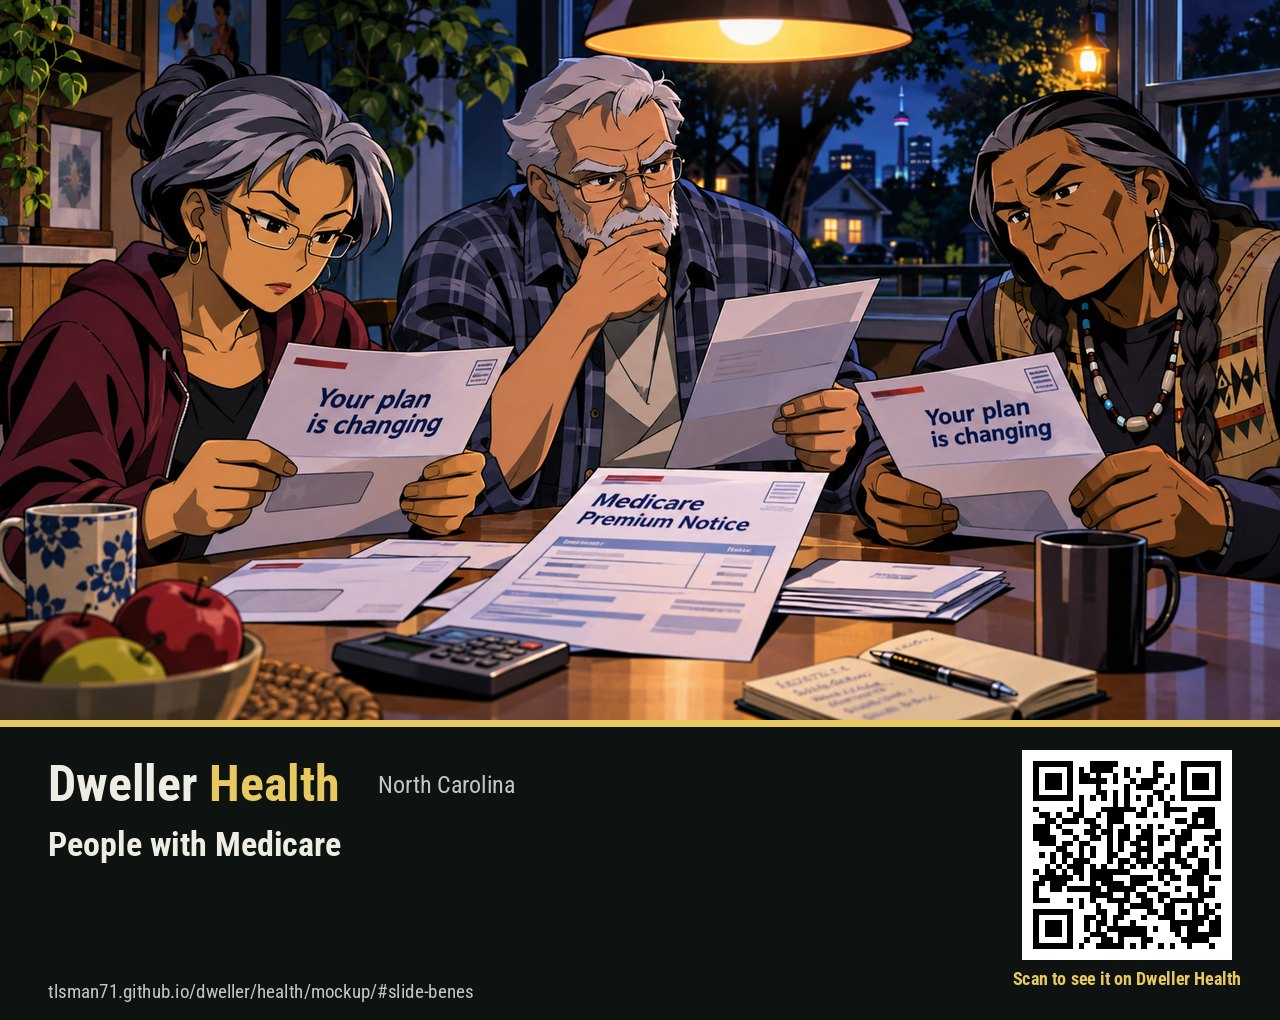
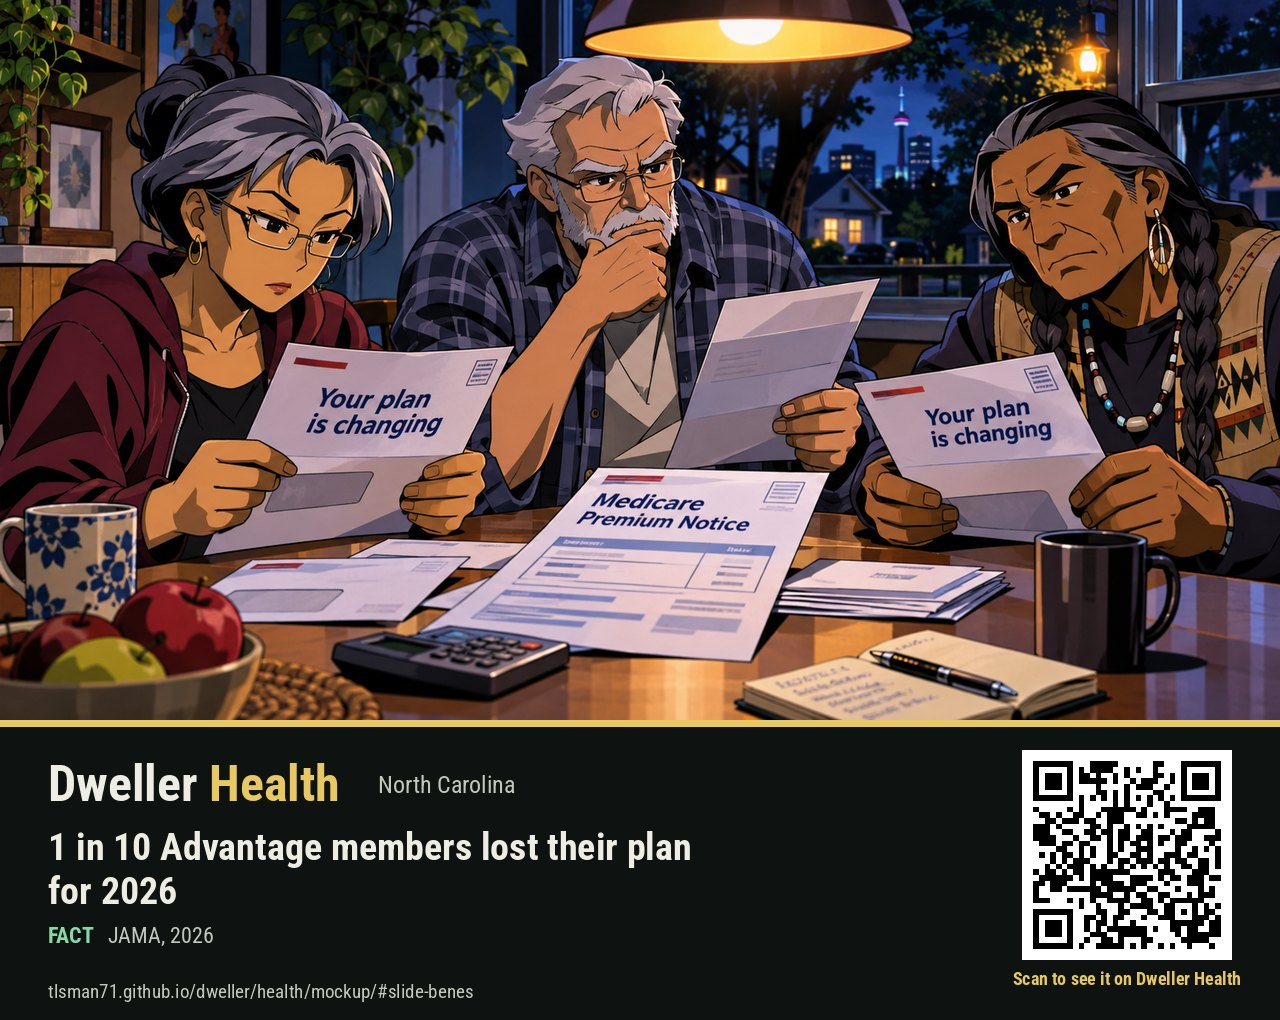
Dweller Health slides: publish 13 short captions Tom approved (Nov 15, 19:06)
Approved: medpac, hi, oig, tax, benes, smi, cms, ma, hum, cvs, left, trustees, mma.
Share cards rebuilt with headlines. cen caption still waiting; tax and trustees
images still waiting, so their captions don't show yet.

Claude-Session: https://claude.ai/code/session_01N4HRhx3dSD52yBqj3MMuLm

Changed region(s): [[0.0312, 0.8206, 0.5625, 0.9422]]

diff --git a/health/drawings/drawings.js b/health/drawings/drawings.js
@@ -24,8 +24,10 @@ window.DH_DRAWINGS = {
     "review_id": "illus-node-medpac-v1"
    },
    "caption": {
-    "status": "waiting",
-    "version": 2
+    "status": "approved",
+    "version": 2,
+    "approved_on": "2026-11-15",
+    "review_id": "caption-node-medpac-v2"
    },
    "headline": "Advantage pay adds $11 billion to Part B premiums",
    "source_short": "MedPAC, Mar 2026"
@@ -46,8 +48,10 @@ window.DH_DRAWINGS = {
     "review_id": "illus-node-hi-v1"
    },
    "caption": {
-    "status": "waiting",
-    "version": 2
+    "status": "approved",
+    "version": 2,
+    "approved_on": "2026-11-15",
+    "review_id": "caption-node-hi-v2"
    },
    "headline": "Part A pays in full until 2033. Then 89%.",
    "source_short": "Medicare Trustees, Jun 2026"
@@ -68,8 +72,10 @@ window.DH_DRAWINGS = {
     "review_id": "illus-node-oig-v1"
    },
    "caption": {
-    "status": "waiting",
-    "version": 2
+    "status": "approved",
+    "version": 2,
+    "approved_on": "2026-11-15",
+    "review_id": "caption-node-oig-v2"
    },
    "headline": "Top 3 insurers: some of the highest rehab-care denial rates",
    "source_short": "HHS Inspector General, Jun 2026"
@@ -90,8 +96,10 @@ window.DH_DRAWINGS = {
     "review_id": "illus-node-tax-v1"
    },
    "caption": {
-    "status": "waiting",
-    "version": 2
+    "status": "approved",
+    "version": 2,
+    "approved_on": "2026-11-15",
+    "review_id": "caption-node-tax-v2"
    },
    "headline": "Your paycheck funds Part A: 2.9%, split with your employer",
    "source_short": "Medicare Trustees, 2026"
@@ -112,8 +120,10 @@ window.DH_DRAWINGS = {
     "review_id": "illus-node-benes-v1"
    },
    "caption": {
-    "status": "waiting",
-    "version": 2
+    "status": "approved",
+    "version": 2,
+    "approved_on": "2026-11-15",
+    "review_id": "caption-node-benes-v2"
    },
    "headline": "1 in 10 Advantage members lost their plan for 2026",
    "source_short": "JAMA, 2026"
@@ -134,8 +144,10 @@ window.DH_DRAWINGS = {
     "review_id": "illus-node-smi-v1"
    },
    "caption": {
-    "status": "waiting",
-    "version": 2
+    "status": "approved",
+    "version": 2,
+    "approved_on": "2026-11-15",
+    "review_id": "caption-node-smi-v2"
    },
    "headline": "Taxes pay 73% of Part B and 81% of Part D",
    "source_short": "Medicare Trustees, 2026"
@@ -156,8 +168,10 @@ window.DH_DRAWINGS = {
     "review_id": "illus-node-cms-v1"
    },
    "caption": {
-    "status": "waiting",
-    "version": 2
+    "status": "approved",
+    "version": 2,
+    "approved_on": "2026-11-15",
+    "review_id": "caption-node-cms-v2"
    },
    "headline": "Advantage costs Medicare $76 billion more than Original would",
    "source_short": "MedPAC, Mar 2026"
@@ -178,8 +192,10 @@ window.DH_DRAWINGS = {
     "review_id": "illus-node-ma-v1"
    },
    "caption": {
-    "status": "waiting",
-    "version": 2
+    "status": "approved",
+    "version": 2,
+    "approved_on": "2026-11-15",
+    "review_id": "caption-node-ma-v2"
    },
    "headline": "34.9 million in Advantage: 55% of those eligible",
    "source_short": "MedPAC, Mar 2026"
@@ -222,8 +238,10 @@ window.DH_DRAWINGS = {
     "review_id": "illus-node-hum-v1"
    },
    "caption": {
-    "status": "waiting",
-    "version": 2
+    "status": "approved",
+    "version": 2,
+    "approved_on": "2026-11-15",
+    "review_id": "caption-node-hum-v2"
    },
    "headline": "Humana: 560,000 members had to find a new plan",
    "source_short": "Humana, Sep 2024"
@@ -244,8 +262,10 @@ window.DH_DRAWINGS = {
     "review_id": "illus-node-cvs-v1"
    },
    "caption": {
-    "status": "waiting",
-    "version": 2
+    "status": "approved",
+    "version": 2,
+    "approved_on": "2026-11-15",
+    "review_id": "caption-node-cvs-v2"
    },
    "headline": "Aetna: Advantage members to drop by high single digits",
    "source_short": "CVS Health, Feb 2025"
@@ -310,8 +330,10 @@ window.DH_DRAWINGS = {
     "review_id": "illus-node-left-v1"
    },
    "caption": {
-    "status": "waiting",
-    "version": 2
+    "status": "approved",
+    "version": 2,
+    "approved_on": "2026-11-15",
+    "review_id": "caption-node-left-v2"
    },
    "headline": "Left Advantage? Medicare then spent 27% more",
    "source_short": "KFF, Dec 2024"
@@ -376,8 +398,10 @@ window.DH_DRAWINGS = {
     "review_id": "illus-node-trustees-v1"
    },
    "caption": {
-    "status": "waiting",
-    "version": 2
+    "status": "approved",
+    "version": 2,
+    "approved_on": "2026-11-15",
+    "review_id": "caption-node-trustees-v2"
    },
    "headline": "Part A's shortfall date moved up: mid-2033",
    "source_short": "Medicare Trustees, Jun 2026"
@@ -398,8 +422,10 @@ window.DH_DRAWINGS = {
     "review_id": "illus-node-mma-v1"
    },
    "caption": {
-    "status": "waiting",
-    "version": 2
+    "status": "approved",
+    "version": 2,
+    "approved_on": "2026-11-15",
+    "review_id": "caption-node-mma-v2"
    },
    "headline": "2003: the law that created Medicare Advantage",
    "source_short": "Public Law 108-173"
